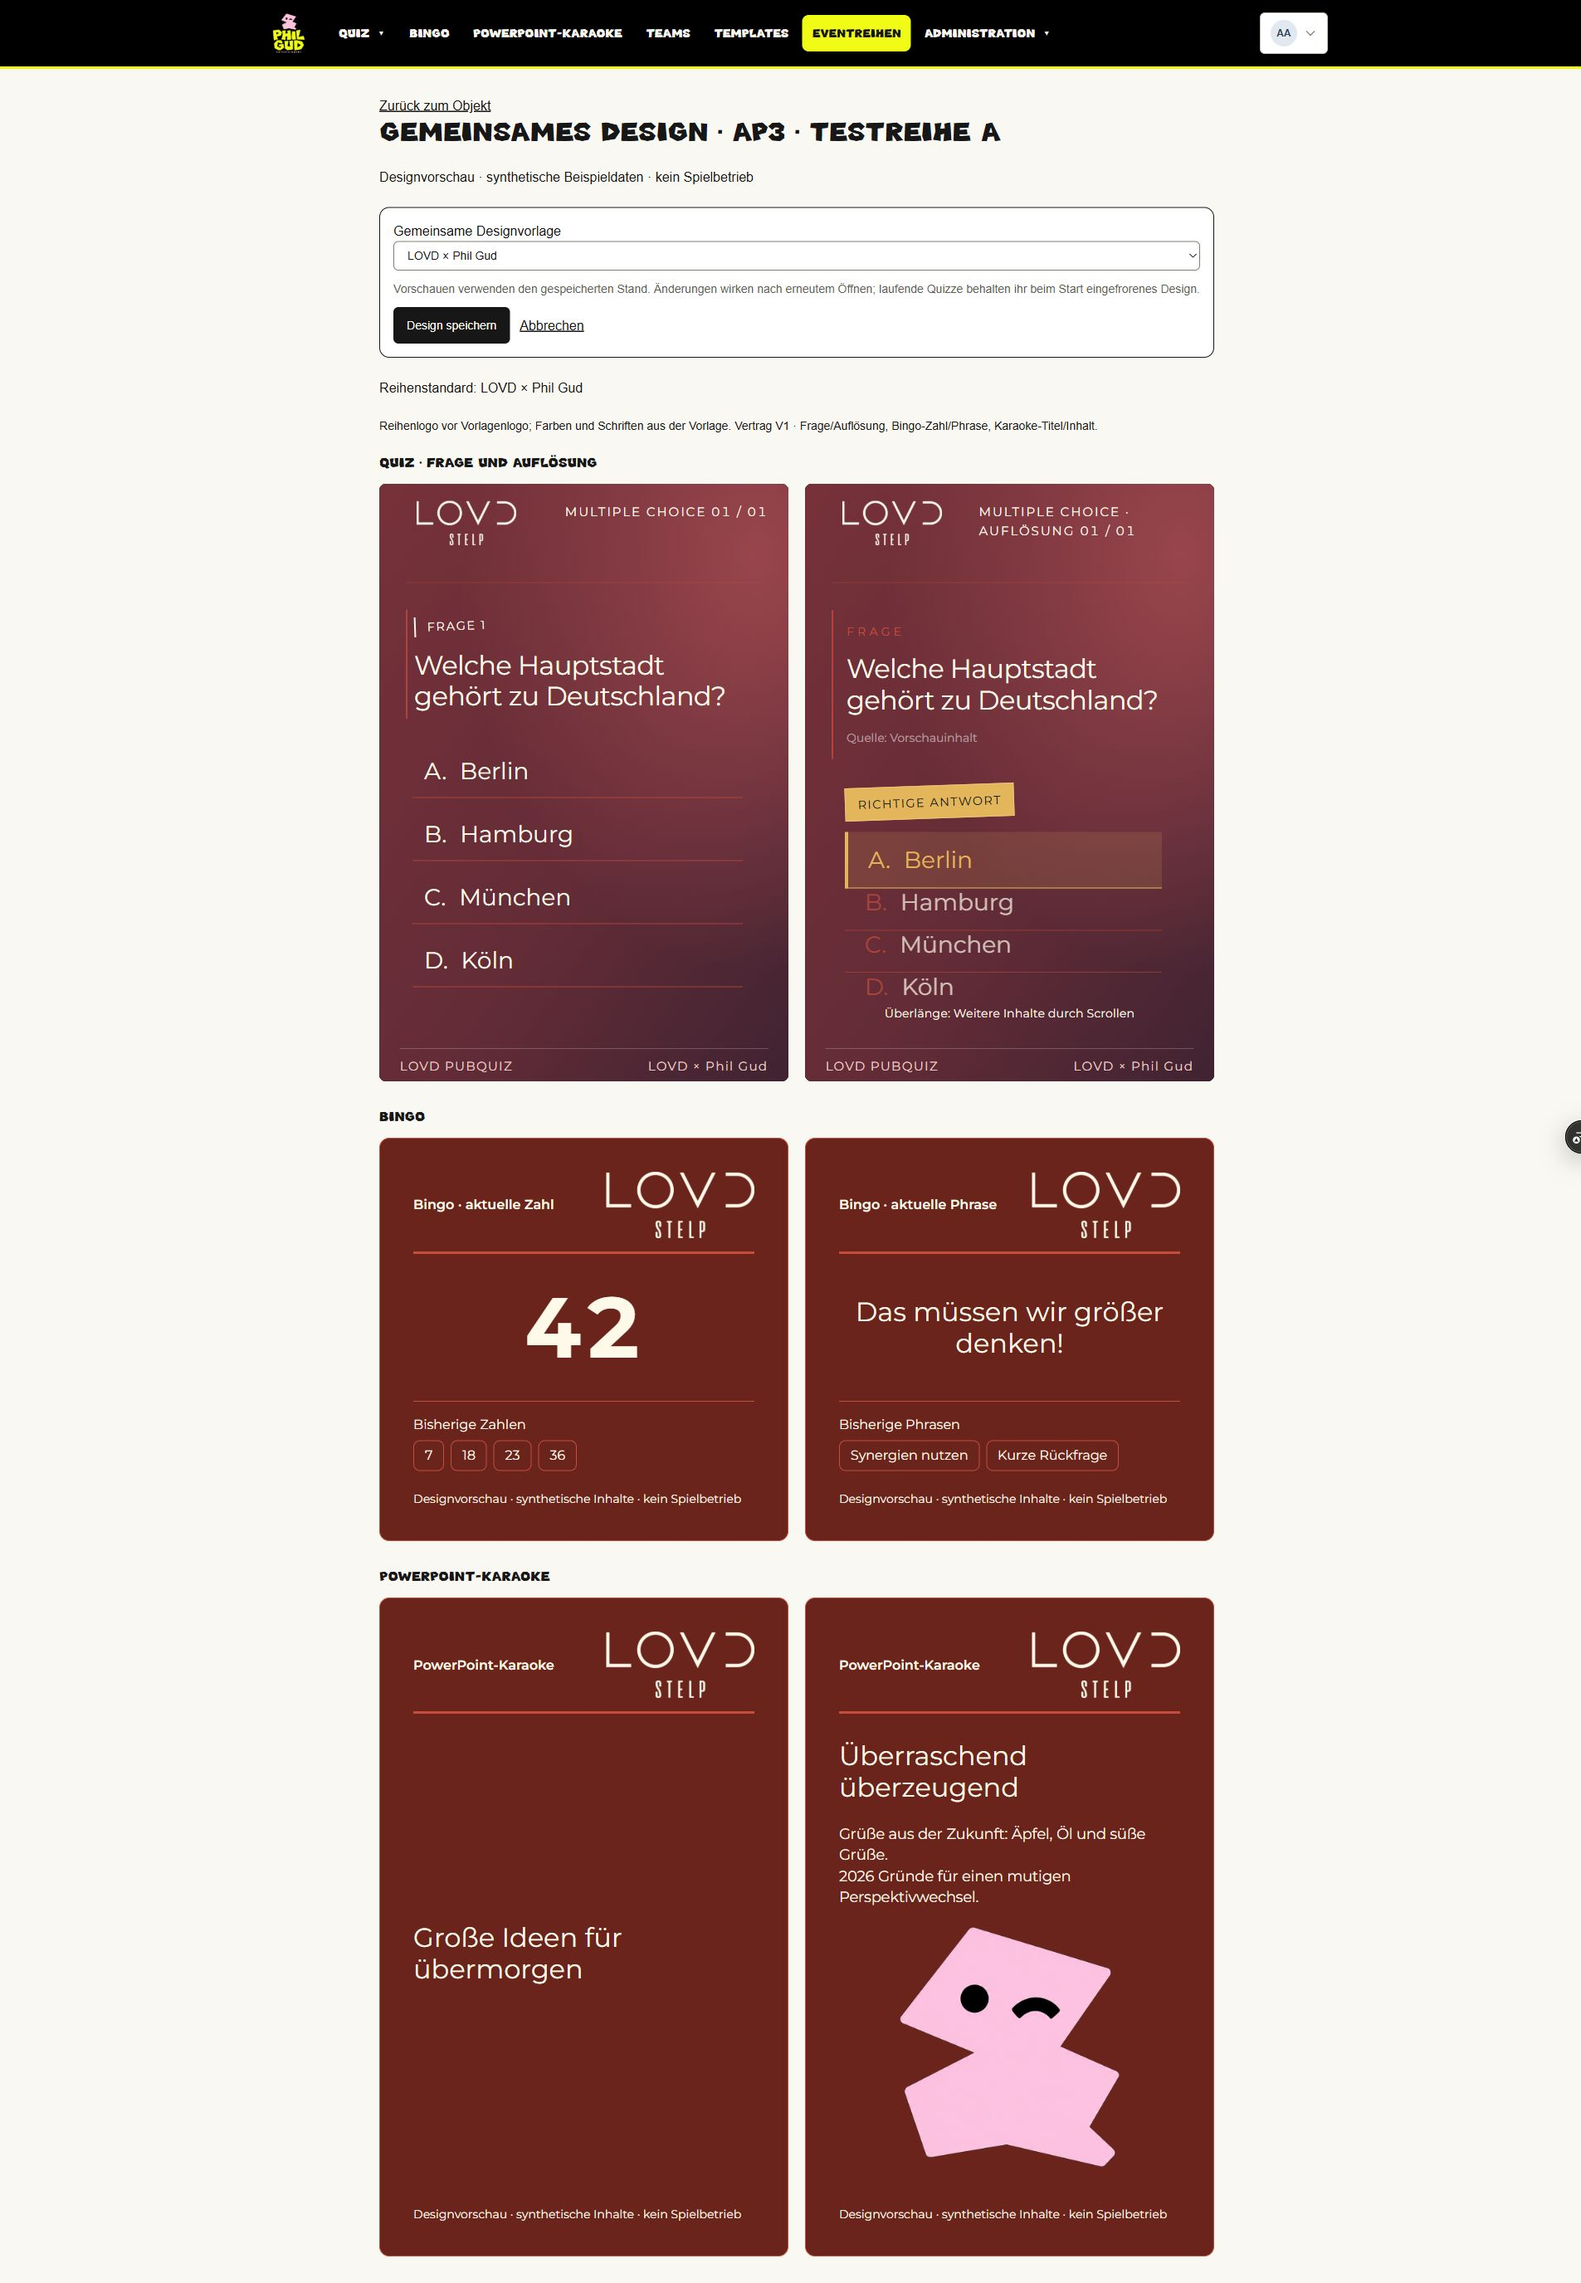
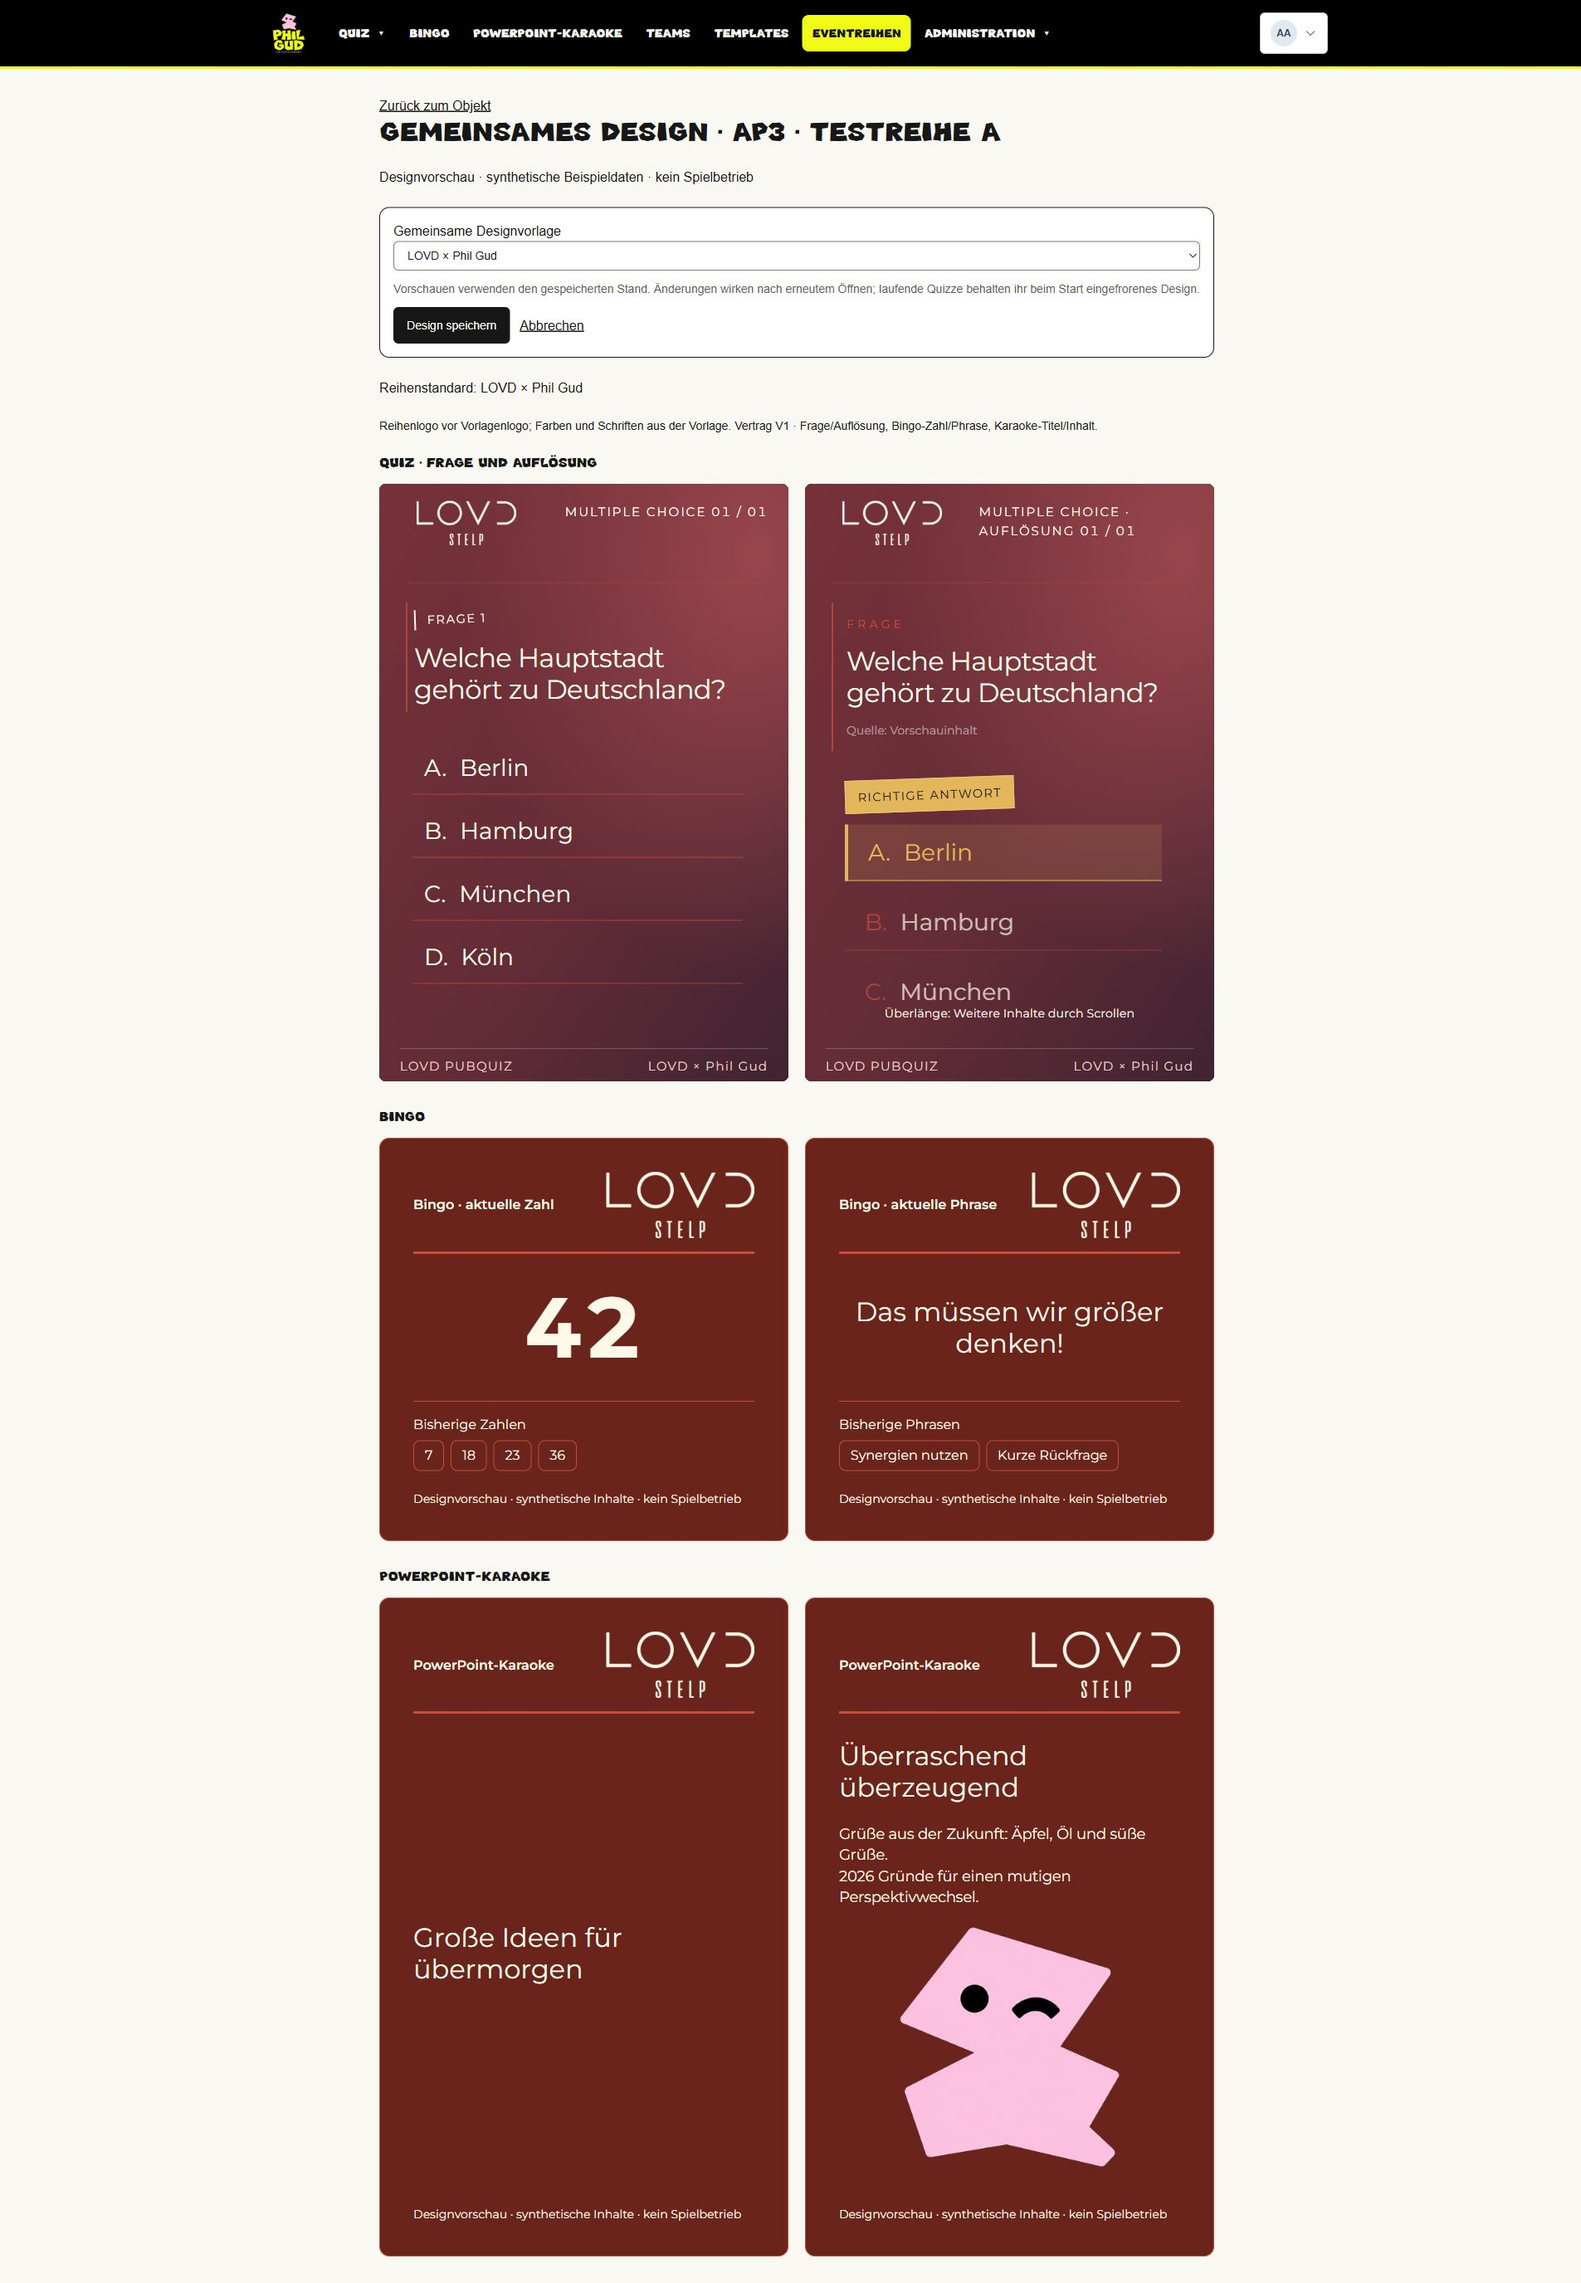
docs: finalize corrected hosted shared design acceptance

diff --git a/docs/acceptance/shared-game-design/README.md b/docs/acceptance/shared-game-design/README.md
@@ -1,6 +1,6 @@
 # AP3 – Prüfbericht und fachliche Preview
 
-Stand der funktionalen Abnahme: bf96f3a3d4893cdf888b39c336a7407bbc890ae1, 26.10.2026. Nachfolgende Dokumentationscommits ändern den geprüften Anwendungscode nicht. PR #136 bleibt ungemergt; keine Production-Aktion.
+Stand der funktionalen Abnahme: 0578dddacb73f6d75184c217d2a7451d8b0b1940, 26.10.2026. Nachfolgende Dokumentationscommits ändern den geprüften Anwendungscode nicht. PR #136 bleibt ungemergt; keine Production-Aktion.
 
 ## Architektur und geänderte Bereiche
 
@@ -35,15 +35,17 @@ Vorbereitet: Reihe 10 mit Phil Gud, alle drei Beispiele mit Reihenvererbung; Qui
 
 | Bereich | Nachweis |
 | --- | --- |
-| TypeScript, geänderte Dateien ESLint, Prisma, Tests, Build | Erfolgreiche Push-CI 40399825334 und PR-CI 40399833679 auf bf96f3a3; vollständiger lokaler Testlauf und Build ebenfalls erfolgreich. Bestehende Gesamt-ESLint-Schulden bleiben separat informativ. |
+| TypeScript, geänderte Dateien ESLint, Prisma, Tests, Build | Erfolgreiche Push-CI 40402600874 und PR-CI 40402610596 auf 0578ddda; vollständiger lokaler Testlauf und Build ebenfalls erfolgreich. Bestehende Gesamt-ESLint-Schulden bleiben separat informativ. |
 | PostgreSQL | AP1/AP2/AP3 und bestehende Eventarten-Integration erfolgreich; leeres und repräsentativ befülltes Main-Ausgangsschema, additive Migration, Erhalt alter Quiz-/Spiel-/Teamdaten. Tatsächliche Policies, Actions und starteQuiz; Rechteentzug, deaktivierte Produkte auch für Admin, fremde/manipulierte IDs, Karaoke-Editor abgewiesen, CAS, Vorlagenvalidierung/Archivierung einschließlich Parallelfall. |
 | Quizkompatibilität | Legacy- und Opt-in-Zweige regressionsgesichert; getrennte Antwortauswahl über alten Stammdaten-Schreibweg erhalten; tatsächlicher Start friert Präsentation und Antwortkonfiguration ein, spätere Reihen-/Vorlagenänderungen und wiederholter Start ändern den Snapshot nicht. Kein Start in der gehosteten Vergleichsreihe. |
-| Chromium | Tatsächliche Auswahlkomponente: speichern, remount, getrennte Antwortauswahl, Read-only, Abbruch erhält Auswahl. Reale Renderer mit App-/Template-CSS und lokaler Originalschrift: 390/1280/1920, Kontrast, Umlaute/ß, Ziffern, lange Inhalte, fehlende Bilder und Grenzen. Keine native Beamer-/Geräteprüfung. |
-| Gehosteter Browser | Frische Admin-/Manager-/Editoranmeldung; beide Marken in allen drei Formaten, Bingo-Override und Rückkehr, Quizauswahl mit separatem Minimal-Antwortformular, vollständige Reloads. Manager eigene Bingo-/Karaokeansichten erlaubt, fremde Reihe 404; Editor Bingo nur lesend, Karaoke-Direktlink 404. Finaler bf96-Stand zusätzlich mobile/ Laptop-/Großbildprüfung, unskalierte Quizvorschau, geladene Logos, sichtbarer Tastaturfokus, Rückkehr zu Stammdaten/13 Teamzuordnungen. |
+| Chromium | Tatsächliche Auswahlkomponente: speichern, remount, getrennte Antwortauswahl, Read-only, Abbruch erhält Auswahl. Reale Renderer mit App-/Template-CSS und lokaler Originalschrift: 343 Pixel tatsächliche mobile Inhaltsbreite sowie 390/1280/1920, Kontrast, Umlaute/ß, Ziffern, lange Inhalte, fehlende Bilder und Grenzen. Keine native Beamer-/Geräteprüfung. |
+| Gehosteter Browser | Frische Admin-/Manager-/Editoranmeldung; beide Marken in allen drei Formaten, Bingo-Override und Rückkehr, Quizauswahl mit separatem Minimal-Antwortformular, vollständige Reloads. Manager eigene Bingo-/Karaokeansichten erlaubt, fremde Reihe 404; Editor Bingo nur lesend, Karaoke-Direktlink 404. Finaler 0578-Stand zusätzlich mobile/ Laptop-/Großbildprüfung, unskalierte Quizvorschau, geladene Logos, sichtbarer Tastaturfokus, Rückkehr zu Stammdaten/13 Teamzuordnungen. |
 | Datenintegrität | Lesender Vorher-/Nachhervergleich von zwölf geschützten Tabellen und stabilen Spielstammdaten: PASS. 64 abgeschlossene Migrationen, keine offenen/gerollbackten Einträge. |
 | Backupvalidator | Optionales displayFamily nur aus vorhandener Schrift-Whitelist; unbekannte Felder bleiben Fehler. Neue Snapshotkonfiguration durch regulären Validator und enger Integritätsprüfung akzeptiert. Kein Backup/Restore ausgeführt; historisches PRIVATE_READBACK_FAILED weiterhin ungeklärt. |
 
-Preview-Workflow 40400438362: SUCCESS; Deployment dpl_5bcsbQbZJtEs3ccnWKL2kW5LiqMC READY; unveränderlicher Link https://pubquiz-qvr7ti8r6-just-phil-gud.vercel.app/ . Commit und stabiler Alias wurden unabhängig über Deployment-Metadaten geprüft. Dokumentationsbedingte Folgebereitstellungen werden im PR mit aktuellem Head nachgewiesen.
+Preview-Workflow 40403338000: SUCCESS; Deployment dpl_85TWXU5YJLpVPLEJY93K7ftbEM1o READY; unveränderlicher Link https://pubquiz-mfcr5z4oo-just-phil-gud.vercel.app/ . Commit und stabiler Alias wurden unabhängig über Deployment-Metadaten geprüft. Die abschließende Dokumentationsänderung enthält nur Bericht/Bilder; Anwendung, Schema, Tests und Workflow sind gegenüber dem ausgelieferten Funktionscommit unverändert.
+
+Zusätzlicher nachgewiesener Previewfehler: Bei 343 Pixel Inhaltsbreite konnte die lesbare Quizfrage über ihre Rasterzelle ragen. Ausschließlich der AP3-Vorschaucontainer erhält inhaltsabhängige Mindesthöhen. Der ergänzte echte Chromium-Test reproduziert ohne Korrektur die Überlappung und besteht mit ihr; bestehende Live-/Templateansichten besitzen das erforderliche AP3-Attribut nicht. Ein zunächst ungeeigneter CSS-Modulimport wurde nach CI-Fehler durch die eng attributgebundene Regel im vorhandenen Stylesheet ersetzt. Vollständiger lokaler Projekttest danach erfolgreich.
 
 ## Migration und verbleibende Prüfgrenzen
 
@@ -53,7 +55,7 @@ Bingo und Karaoke sind weiterhin nicht spielbar. Keine OCR, Ziehungen, Folienimp
 
 ## Vergleichsbilder
 
-Dieselbe jeweilige Designwelt über Quiz, Bingo und Karaoke, aufgenommen auf dem funktional geprüften bf96-Stand:
+Dieselbe jeweilige Designwelt über Quiz, Bingo und Karaoke, aufgenommen auf dem funktional geprüften 0578-Stand:
 
 ![Phil Gud: alle drei Eventarten](images/phil-gud-all-formats.jpg)
 

diff --git a/docs/architecture/shared-game-design.md b/docs/architecture/shared-game-design.md
@@ -30,4 +30,3 @@ Der Quiz-Snapshot enthält getrennt die gemeinsame Designbasis und die aufgelös
 
 
 Die vorhandene Verwendungsanzeige und Archivierungssperre zählen gemeinsame Reihen-/Quiz-/Spielreferenzen mit. AP3-Zuordnung sperrt die Vorlagenzeile lesend, Archivierung dieselbe Zeile vor ihrer Referenzprüfung schreibend; eine parallele neue AP3-Zuordnung darf keine archivierte Vorlage hinterlassen. Alte Schutzregeln bleiben bestehen.
-
